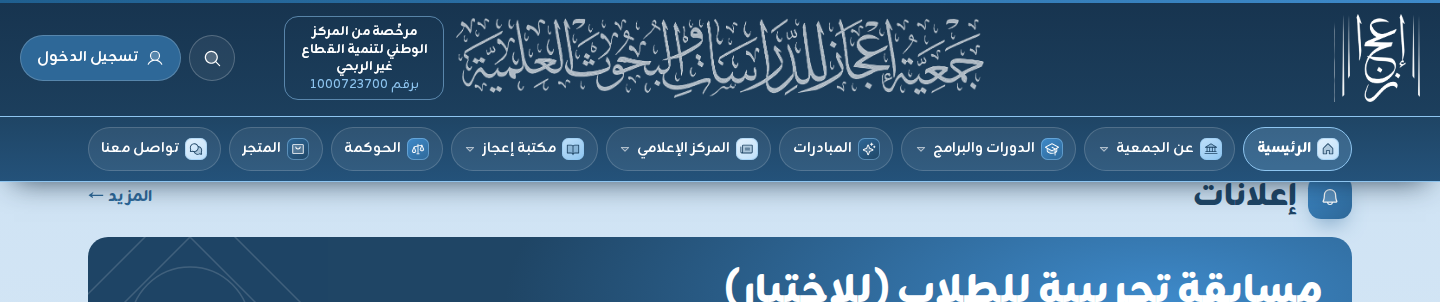
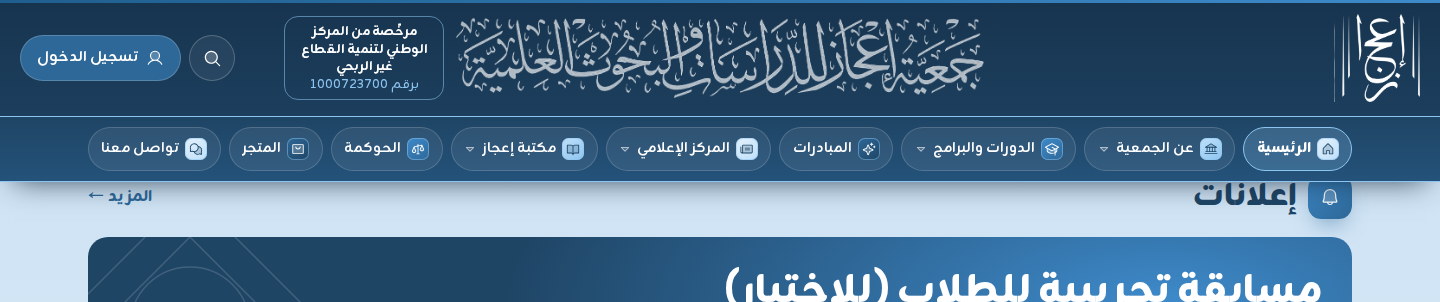
fix(header): keep focus clear of the pinned header and move the live badge off the first row
Supervisor review on #130:
- html scroll-padding-top per breakpoint (5rem, 7rem from 1024, 12.5rem
  from 1240) so keyboard focus never lands under the pinned header; a
  browser test at 1440 fails without it and passes with it.
- The live-stream badge leaves the first row (it pushed the calligraphy
  ~37px off centre): it hangs under the menu row on desktop (the row has
  only 41-98px to spare beside the seven capsules) and opens the mobile
  menu below 1240. Pest test for its placement; browser cases at
  1920/1440/1280/1263 when a stream is announced.

Changed region(s): [[0.5, 0.894, 0.9375, 1.0], [0.8125, 0.894, 0.8438, 0.9238]]

diff --git a/resources/css/concept.css b/resources/css/concept.css
@@ -856,6 +856,24 @@ html[data-motion-off] .float-soft {
     box-shadow: 0 12px 28px -14px rgb(15 37 54 / 0.85);
 }
 
+/* الرأس الثابت يغطي أعلى الشاشة بارتفاعه كاملاً، فالتركيز بلوحة المفاتيح والروابط الداخلية (#) تُمرَّر إلى ما تحته (WCAG 2.4.11 —
+   مراجعة المشرف على #130): نحو 68 بكسل على الجوال، و100 حتى 1240، ونحو 193 بالصفّين من 1240 */
+html {
+    scroll-padding-top: 5rem;
+}
+
+@media (min-width: 64rem) {
+    html {
+        scroll-padding-top: 7rem;
+    }
+}
+
+@media (min-width: 77.5rem) {
+    html {
+        scroll-padding-top: 12.5rem;
+    }
+}
+
 /* الصف الأول (ترتيب صفوان، 2 نوفمبر 2026، ويلغي البند ٢٥ من ملاحظات 1 نوفمبر: docs/decisions/2026-11-02-header-final.md):
    لا يصغر شيء عند التمرير، فالمقاسات هنا ثابتة لكل عرض. والجوال: الرمز والمخطوطة متجاوران في البداية وأزرار النهاية بعدهما */
 .header-top {
@@ -987,6 +1005,19 @@ html[data-motion-off] .float-soft {
 .header-nav {
     background: linear-gradient(180deg, var(--blue-900), var(--blue-850));
     border-top: 1px solid var(--blue-300);
+}
+
+/* شارة البث (partials/live-badge) معلّقة تحت صف القائمة في طرفه الأيسر، ثابتة معه عند التمرير: لا تأخذ من عرض الكبسولات (لا
+   يتسع الصف لها مع الكبسولات السبع تحت نحو 1400 بكسل، فكان يظهر زر ☰ بدل القائمة)، ولا تزيح المخطوطة عن منتصف الصف الأول */
+.header-nav-row {
+    position: relative;
+}
+
+.header-nav-row > [data-live-badge] {
+    position: absolute;
+    top: calc(100% + 0.5rem);
+    inset-inline-end: 1.75rem;
+    box-shadow: 0 8px 20px -10px rgb(15 37 54 / 0.8);
 }
 
 /* سبع كبسولات متساوية (أو بقدر العناصر)، صف واحد */

diff --git a/resources/views/partials/header.blade.php b/resources/views/partials/header.blade.php
@@ -37,14 +37,6 @@
             </p>
 
             <div class="header-actions">
-                {{-- شارة البث: تظهر آلياً لبث جارٍ أو قادم وتختفي بعده (App\View\Composers\SiteChromeComposer) --}}
-                @if ($liveStream ?? null)
-                    <a href="{{ route('live') }}" wire:navigate class="hidden shrink-0 items-center gap-2 whitespace-nowrap rounded-full bg-white px-3 py-1.5 text-sm font-semibold text-red-700 hover:bg-red-50 sm:inline-flex">
-                        <span @class(['size-2 rounded-full bg-red-600', 'animate-pulse' => $liveStream['live']]) aria-hidden="true"></span>
-                        {{ __($liveStream['live'] ? 'livestream.header.live' : 'livestream.header.upcoming') }}
-                    </a>
-                @endif
-
                 {{-- البحث السريع (partials/search-palette): نافذة بـ Ctrl+K أو بالضغط، وبجانبه الدخول --}}
                 <button type="button" data-search-open
                     class="header-icon-button" aria-label="{{ __('ui.search.open') }}" aria-keyshortcuts="Control+K Meta+K" title="{{ __('ui.search.open') }} ({{ __('ui.search.shortcut') }})">
@@ -75,9 +67,10 @@
         </div>
     </div>
 
-    {{-- الصف الثاني: القائمة «ج» --}}
+    {{-- الصف الثاني: القائمة «ج»، وشارة البث معلّقة تحته في طرفه (قرار المشرف على #130: لا تزيح المخطوطة عن منتصف الصف الأول) --}}
     <nav data-main-nav class="header-nav hidden nav:block" aria-label="{{ __('site.main_navigation') }}">
-        <ul class="nav-capsules mx-auto max-w-[82.5rem] px-4 sm:px-7">
+        <div class="header-nav-row mx-auto max-w-[82.5rem] px-4 sm:px-7">
+        <ul class="nav-capsules">
             @foreach ($menu as $item)
                 @php($current = $item->isCurrent() || $item->hasCurrentChild())
                 <li class="relative min-w-0" @if ($item->children->isNotEmpty()) data-nav-dropdown @endif>
@@ -111,11 +104,14 @@
                 </li>
             @endforeach
         </ul>
+        @include('partials.live-badge')
+        </div>
     </nav>
 
-    {{-- قائمة الجوال واللوحي: العناصر نفسها بأيقوناتها --}}
+    {{-- قائمة الجوال واللوحي: العناصر نفسها بأيقوناتها، وشارة البث أولها --}}
     <div id="mobile-menu" hidden class="header-mobile-menu nav:hidden">
         <nav class="container-page max-h-[75vh] overflow-y-auto py-3" aria-label="{{ __('site.main_navigation') }}">
+            @include('partials.live-badge', ['class' => 'mb-3'])
             <ul class="space-y-1">
                 @foreach ($menu as $item)
                     @php($current = $item->isCurrent() || $item->hasCurrentChild())

diff --git a/tests/Feature/Platform/HeaderRowTest.php b/tests/Feature/Platform/HeaderRowTest.php
@@ -1,5 +1,6 @@
 <?php
 
+use App\Models\LiveStream;
 use App\Models\MenuItem;
 
 // الرأس صفّان (أمر التصور النهائي، النسخة 63 — البندان R2 وR3): الأول الشعار والمخطوطة ومربع الترخيص والدخول والبحث، والثاني
@@ -13,7 +14,7 @@ it('puts the menu on its own second row of equal capsules and shows the bar from
     @$dom->loadHTML($this->get('/')->assertOk()->getContent());
     $x = new DOMXPath($dom);
 
-    $items = $x->query("//nav[@data-main-nav]/ul[contains(@class, 'nav-capsules')]/li/*[self::a or self::button]");
+    $items = $x->query("//nav[@data-main-nav]//ul[contains(@class, 'nav-capsules')]/li/*[self::a or self::button]");
     expect($items->length)->toBe(2);
 
     foreach ($items as $item) {
@@ -71,4 +72,18 @@ it('keeps the header the same size on scroll: no shrink factor or scroll attribu
     foreach (['resources/css/concept.css', 'resources/css/visual.css', 'resources/css/app.css', 'resources/js/app.js'] as $file) {
         expect(file_get_contents(base_path($file)))->not->toContain('var(--hs')->not->toContain('data-scrolled');
     }
+});
+
+// قرار المشرف على #130: شارة البث في نهاية صف القائمة وأول قائمة الجوال، لا في الصف الأول، فلا تزيح المخطوطة عن المنتصف
+it('puts the live stream badge in the menu row and the mobile menu, never in the first row', function () {
+    LiveStream::factory()->create();
+
+    $dom = new DOMDocument;
+    @$dom->loadHTML($this->get('/')->assertOk()->getContent());
+    $x = new DOMXPath($dom);
+
+    expect($x->query("//nav[@data-main-nav]/div[contains(@class, 'header-nav-row')]/a[@data-live-badge]")->length)->toBe(1)
+        ->and($x->query("//div[@id='mobile-menu']//a[@data-live-badge]")->length)->toBe(1)
+        ->and($x->query("//div[contains(concat(' ', @class, ' '), ' header-top ')]//a[@data-live-badge]")->length)->toBe(0)
+        ->and($x->query('//a[@data-live-badge]')->item(0)->textContent)->toContain(__('livestream.header.live'));
 });

diff --git a/resources/views/partials/live-badge.blade.php b/resources/views/partials/live-badge.blade.php
@@ -1,0 +1,8 @@
+{{-- شارة البث في الرأس: تظهر آلياً لبث جارٍ أو قادم وتختفي بعده ($liveStream من App\View\Composers\SiteChromeComposer). معلّقة تحت صف
+     القائمة على الحاسوب (concept.css)، وأول قائمة الجوال واللوحي، فلا تزيح المخطوطة عن منتصف الصف الأول (docs/decisions/2026-11-02-header-final.md) --}}
+@if ($liveStream ?? null)
+    <a href="{{ route('live') }}" wire:navigate data-live-badge @class(['inline-flex h-11 shrink-0 items-center gap-2 whitespace-nowrap rounded-full bg-white px-4 text-sm font-bold text-red-700 hover:bg-red-50', $class ?? null])>
+        <span @class(['size-2 rounded-full bg-red-600', 'animate-pulse' => $liveStream['live']]) aria-hidden="true"></span>
+        {{ __($liveStream['live'] ? 'livestream.header.live' : 'livestream.header.upcoming') }}
+    </a>
+@endif

diff --git a/docs/decisions/2026-11-02-header-final.md b/docs/decisions/2026-11-02-header-final.md
@@ -10,7 +10,7 @@
   بفاصل صغير واضح (12 بكسل)، ثم البحث، ثم «تسجيل الدخول» («حسابي» بعد الدخول) في أقصى اليسار.
 - **بعرض الشاشة كله** لا داخل حاوية المحتوى: هامش متساوٍ 20 بكسل على الحاسوب (16 على الجوال). وصف القائمة تحته يبقى في الحاوية.
 - **البناء:** شبكة بثلاثة أعمدة (`.header-top` في `concept.css`): الطرفان `minmax(max-content, 1fr)` بعرض واحد فالأوسط في المنتصف،
-  ولا يضيق طرف عن محتواه: إن زاد (شارة البث مثلاً) انزاحت المخطوطة قليلاً بدل أن يتراكب شيء.
+  ولا يضيق طرف عن محتواه: إن زاد انزاحت المخطوطة قليلاً بدل أن يتراكب شيء.
 - **الرمز والمخطوطة منفصلان** في `partials/header.blade.php` بدل `x-brand size="masthead"` (حُذف المقاس من المكوّن). رابط الرمز خارج
   ترتيب لوحة المفاتيح وقارئ الشاشة (`tabindex="-1"` و`aria-hidden`)، والاسم المقروء في رابط المخطوطة، فلا رابطان مكرران إلى الرئيسية.
 - **المقاسات على الحاسوب (من 1240):** الرمز 88 بكسل (98 من 1536). والمخطوطة بأكبر ما يتسع في المنتصف مع طرفها (نحو 390 بكسل):
@@ -27,6 +27,16 @@
 - حُذف كله: الخاصية المسجلة `--hs` و`--hs-nav` وانتقالها، و`transform: scale` على الأزرار، ووسم `data-scrolled` ومستمع التمرير في
   `app.js`، وقاعدتا الظل عند التمرير في `concept.css` و`visual.css` (الظل ثابت). فلا سكربت للرأس عند التمرير أصلاً، ولا إزاحة تخطيط منه.
 - قياس اتساع القائمة (`data-nav-overflow`) باقٍ مع تغيّر العرض وحده، بلا قسمة على المعامل.
+
+## مراجعة المشرف على #130
+
+- **التركيز تحت الرأس الثابت (مهمة):** الرأس يغطي نحو 182 بكسل على الحاسوب، فكان العنصر المركّز بلوحة المفاتيح يختفي تحته عند الرجوع
+  (WCAG 2.4.11). الآن `scroll-padding-top` على `html`: 5rem تحت 1024، و7rem حتى 1240، و12.5rem من 1240. واختباره في المتصفح على 1440
+  يفشل بلا الحشو (العنصر المركّز على 58 بكسل والرأس حتى 182) وينجح به.
+- **شارة البث (قرار المشرف):** خرجت من الصف الأول فلا تزيح المخطوطة (كانت تزيحها نحو 37 بكسل على 1263). صارت في `partials/live-badge`:
+  - على الحاسوب داخل صف القائمة في الشيفرة، **معلّقة تحته** في طرفه الأيسر وثابتة معه. لا بجانب الكبسولات: قيس الفائض في الصف
+    مع الكبسولات السبع فكان 41 بكسل على 1263، و58 على 1280، و98 من 1366، والشارة 134، فكان زر ☰ يظهر بدل القائمة أثناء البث.
+  - على اللوحي والجوال أول عنصر في قائمة ☰ (وكانت على اللوحي في الصف الأول).
 
 ## ما يجب أن يبقى
 
